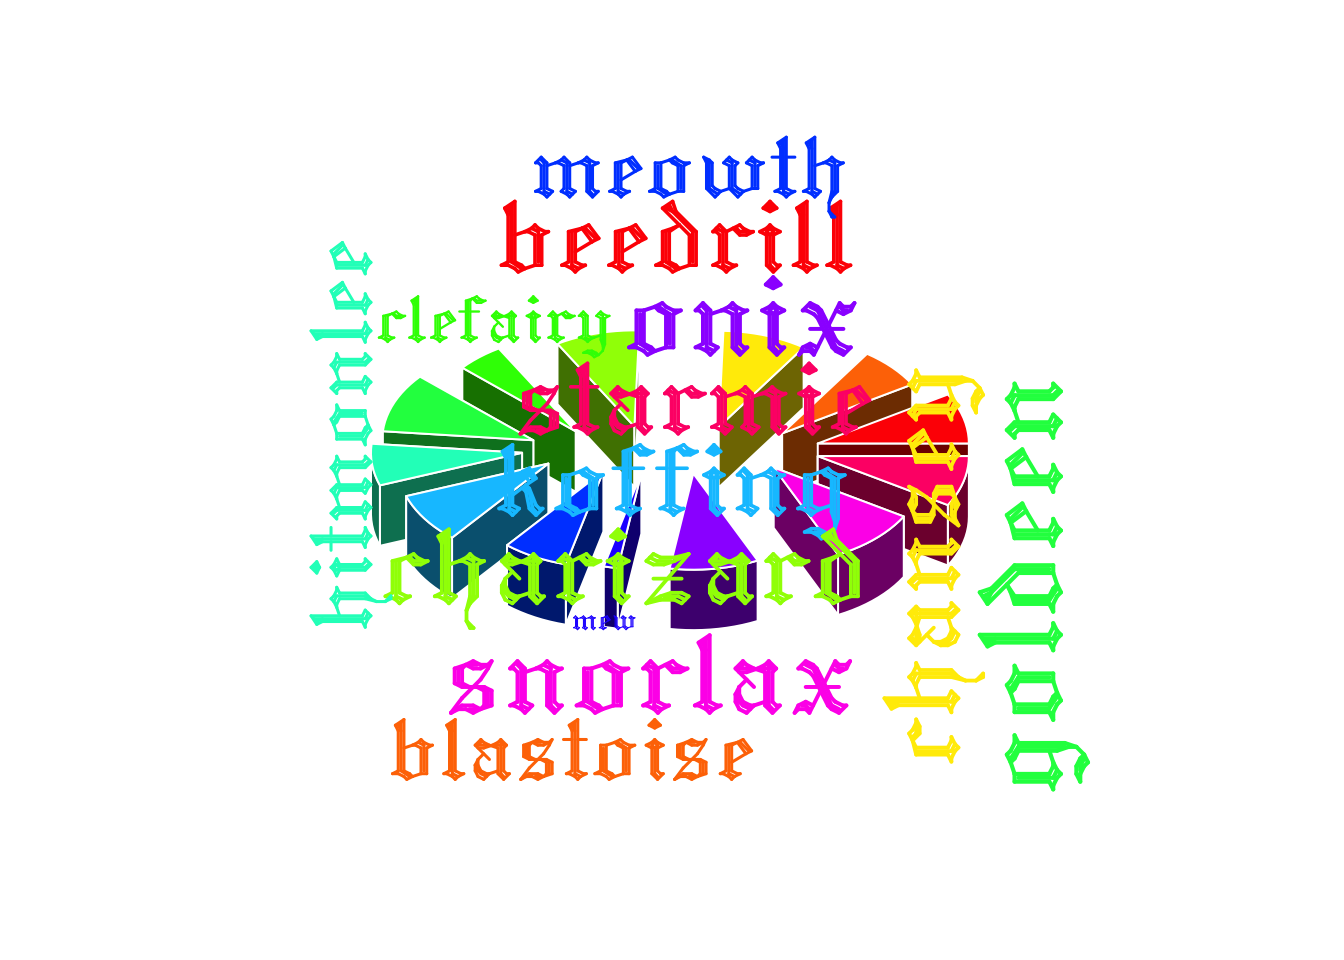
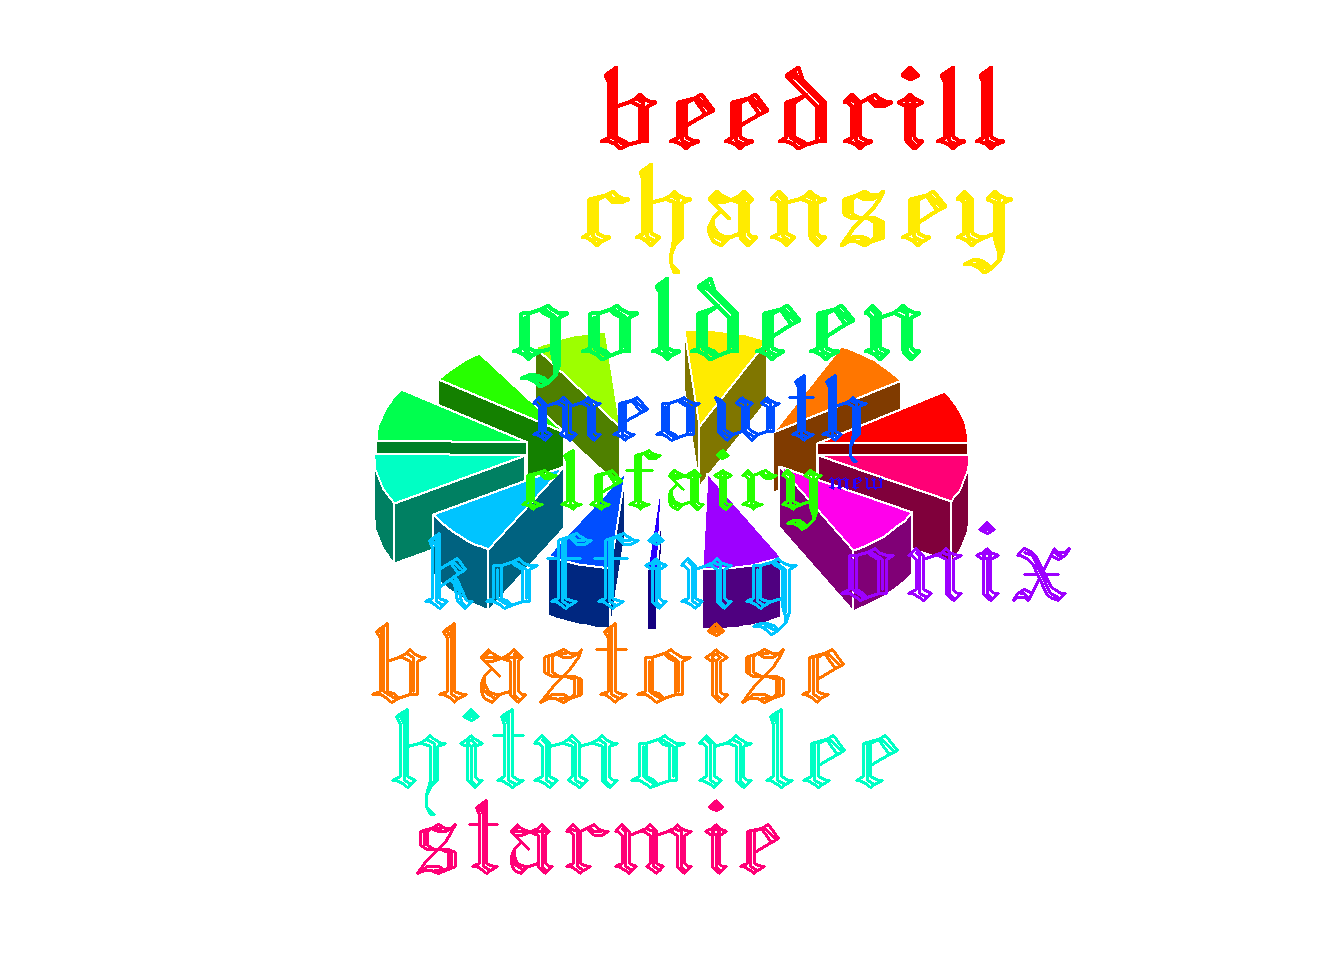
fix suck links, remove emoji, remove rainbow reference

Changed region(s): [[0.2188, 0.0625, 0.8125, 0.9062]]

diff --git a/content/post/2018-05-25-cloud-pie.html b/content/post/2018-05-25-cloud-pie.html
@@ -23,9 +23,9 @@ tags:
 <p><img src="https://media.giphy.com/media/LOcPt9gfuNOSI/giphy.gif" alt="Michael Fassbander as Steve JObs saying 'perfection'" width="100%"></p>
 <p>Let me set the scene. There’s three things we can agree on:</p>
 <ol style="list-style-type: decimal">
-<li>🥧 <a href="https://duckduckgo.com/?q=pie+charts+suck">Everyone loves pie charts</a>, particularly when they’re in 3D, exploded and tilted.</li>
-<li>☁ <a href="https://duckduckgo.com/?q=word+clouds+suck">Word clouds aren’t at all overused</a>.</li>
-<li>🤷🏿 I have too much time on my hands.</li>
+<li><a href="https://www.google.co.uk/search?q=pie+charts+suck">Everyone loves pie charts</a>, particularly when they’re in 3D, exploded and tilted.</li>
+<li><a href="https://www.google.co.uk/search?q=word+clouds+suck">Word clouds aren’t at all overused</a>.</li>
+<li>I have too much time on my hands.</li>
 </ol>
 <p>With that in mind, I’ve artfully melded clouds and pies into the function <code>cloud_pie</code>, which I think sounds rather sweet.</p>
 <p>You can find the function in my personal package <code>dray</code>, which I made following <a href="https://hilaryparker.com/2014/04/29/writing-an-r-package-from-scratch/">Hilary Parker’s excellent ‘Writing an R Package from Scratch’ blogpost</a>.</p>
@@ -62,7 +62,7 @@ dplyr::glimpse(pkmn_summary)</code></pre>
 <pre><code>## Observations: 13
 ## Variables: 2
 ## $ pokemon &lt;fct&gt; beedrill, blastoise, chansey, charizard, clefairy, gol...
-## $ n       &lt;int&gt; 17, 14, 18, 18, 10, 20, 14, 17, 14, 3, 19, 19, 17</code></pre>
+## $ n       &lt;int&gt; 26, 25, 26, 23, 18, 26, 25, 24, 20, 3, 25, 26, 23</code></pre>
 </div>
 <div id="hold-on-tight" class="section level1">
 <h1>Hold on tight</h1>
@@ -73,7 +73,7 @@ dplyr::glimpse(pkmn_summary)</code></pre>
   count_col = &quot;n&quot;
 )</code></pre>
 <p><img src="/post/2018-05-25-cloud-pie_files/figure-html/cloud_pie-1.png" width="672" /></p>
-<p>Did I forget to mention that it defaults to a rainbow colour palette and gothic typeface? The words and pie slices are sized by frequency and match up by colour. <em>Sensational</em>.</p>
+<p>Did I forget to mention that the typeface is gothic and colours are selected randomly from the named colours that R knows about? The words and pie slices are sized by frequency and match up by colour. <em>Sensational</em>.</p>
 </div>
 <div id="you-know-what-to-do" class="section level1">
 <h1>You know what to do</h1>

diff --git a/public/about/index.html b/public/about/index.html
@@ -3,7 +3,7 @@
   <head>
     <meta charset="utf-8">
 <meta name="viewport" content="width=device-width, initial-scale=1.0">
-<meta name="generator" content="Hugo 0.27.1" />
+<meta name="generator" content="Hugo 0.40.3" />
 
 
 <title>About - Rostrum</title>

diff --git a/public/post/index.html b/public/post/index.html
@@ -3,7 +3,7 @@
   <head>
     <meta charset="utf-8">
 <meta name="viewport" content="width=device-width, initial-scale=1.0">
-<meta name="generator" content="Hugo 0.27.1" />
+<meta name="generator" content="Hugo 0.40.3" />
 
 
 <title>Posts - Rostrum</title>

diff --git a/public/categories/r/index.html b/public/categories/r/index.html
@@ -3,7 +3,7 @@
   <head>
     <meta charset="utf-8">
 <meta name="viewport" content="width=device-width, initial-scale=1.0">
-<meta name="generator" content="Hugo 0.27.1" />
+<meta name="generator" content="Hugo 0.40.3" />
 
 
 <title>R - Rostrum</title>

diff --git a/public/index.html b/public/index.html
@@ -3,7 +3,7 @@
   <head>
     <meta charset="utf-8">
 <meta name="viewport" content="width=device-width, initial-scale=1.0">
-<meta name="generator" content="Hugo 0.27.1" />
+<meta name="generator" content="Hugo 0.40.3" />
 
 
 <title>Rostrum</title>
